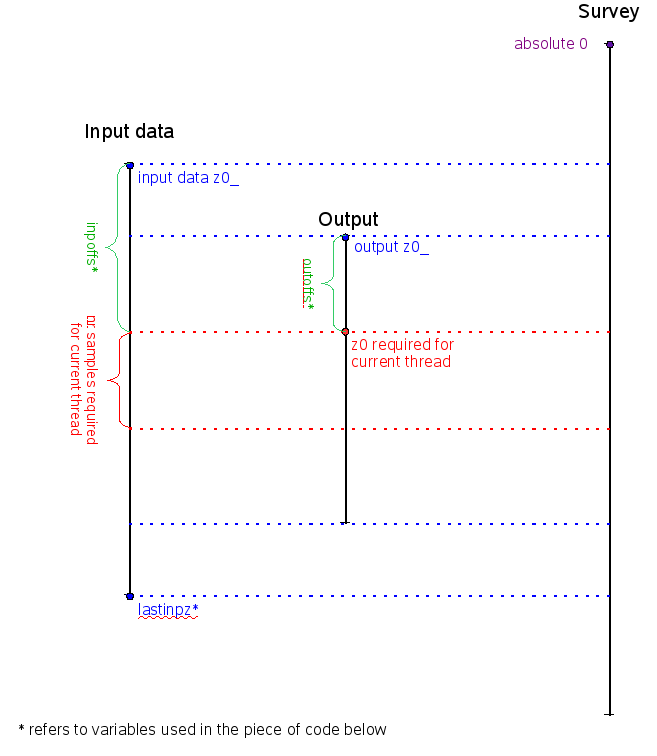
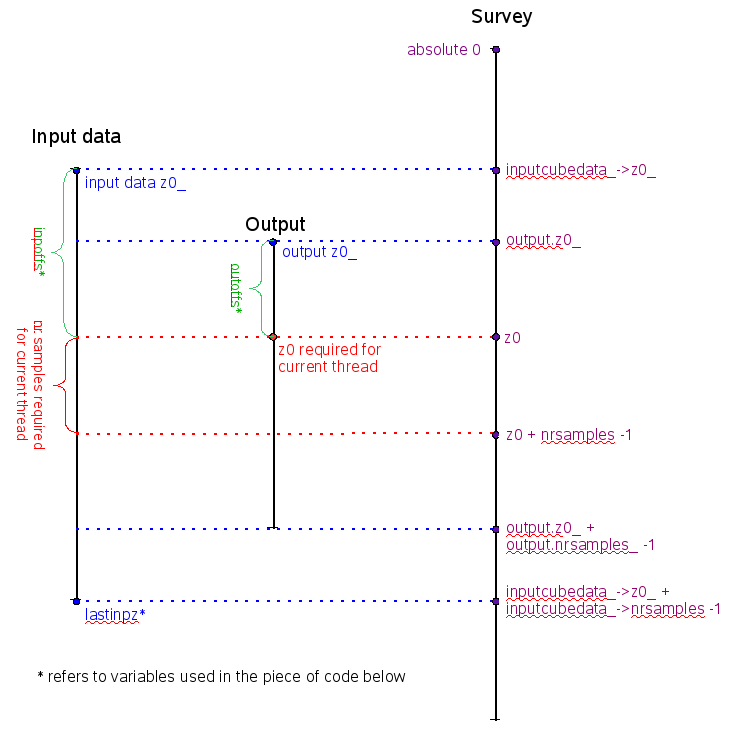
added note on different z indexes
git-svn-id: https://svn.opendtect.org/od/trunk@7943 a985855d-d384-4b45-ae33-31a410998c3c

diff --git a/doc/Programmer/plugins.html b/doc/Programmer/plugins.html
@@ -4,7 +4,7 @@
   - Author:	A.H. Bril
   - Date:	Oct 2003
   - Contents:	Plugins
-  - RCS:	$Id: plugins.html,v 1.34 2006-08-07 11:49:20 dgb Exp $
+  - RCS:	$Id: plugins.html,v 1.35 2006-08-21 10:43:54 helene Exp $
  -->
 
 <body background="../backg.png"><title>Plugins [OpendTect Programmer's manual V2.4]</title>
@@ -535,11 +535,62 @@ function. If your input requires additional samples (timegate) or neighbouring
 traces (stepout), you will have to define <code>reqZMargin()</code> and 
 <code>reqStepout()</code> respectively. </p>
 
-
+<a name=cohrw><h5>computeData();</h5>
 <p> When we want to look at the actual work, the place to be is the
 <code><b>computeData()</b></code> method. This is the place where you define the
 mathematics for calculating the attribute. This function is called for each 
 trace of your output cube.</p>
+
+<p>In the computeData() method, we are faced with a number of Z ranges.
+To be able to support multi-threading, computeData must be ready to only
+process part of the trace. Then, also, we can have input cubes that are
+larger than requested or desired, or smaller than that. This delivers a
+rather nasty picture of Z indexes that we really cannot circumvent.
+To make things at least clear, the indexes are all related to the the
+absolute Z=0. This is where everything refers to. Then, we have different
+start Z indexes for each of the input cubes and the output cube. These are
+named 'z0_' in the corresponding DataHolders.</p>
+
+<center>
+<img src="fig_explainz0.png" alt="Explaining Z0">
+</center>
+
+<p>To show what indexes are involved, let's go for an example where we simply
+have one input cube from which we need to take the average of 5 consequent
+samples (2 above and 2 below) and put it in the output.
+
+We get the following code:</p>
+<pre><code>
+bool MatchDelta::computeData( const DataHolder& output, const BinID& relpos,
+                              int z0, int nrsamples ) const
+{
+    const ValueSeries<float>* inpseries
+                = inpcubedata_->series( getDataIndex(0) );
+    const int inpoffs = z0 - inpcubedata_->z0_;
+    const int outoffs = z0 - output.z0_;
+    const int lastinpz = inpcubedata_->z0_ + inpcubedata_->nrsamples_ - 1;
+
+    for ( int idx=0; idx &lt; nrsamples; idx++ )
+    {
+        const int inpz = inpoffs + idx;
+        const int curz = z0 + idx;
+        TypeSet<float> vals;
+        if ( inpcubedata_->z0_ < curz-1 )
+             vals +=inpseries->value( inpz - 2 );
+        if ( inpcubedata_->z0_ < curz )
+             vals += inpseries->value( inpz - 1 );
+        vals += inpseries->value( inpz );
+        if ( lastinpz >= curz )
+             vals += inpseries->value( inpz + 1 );
+        if ( lastinpz >= curz+1 )
+             vals += inpseries->value( inpz + 2 );
+
+	const float val = vals.size() ? gtAvg(vals) : mUdf(float);
+        output.series(0)->setValue( outoffs + idx, val );
+    }
+
+    return true;
+}</code></pre>
 
 
 <a name=cohui><h4>The <code>uiCoh</code> plugin</h4>
